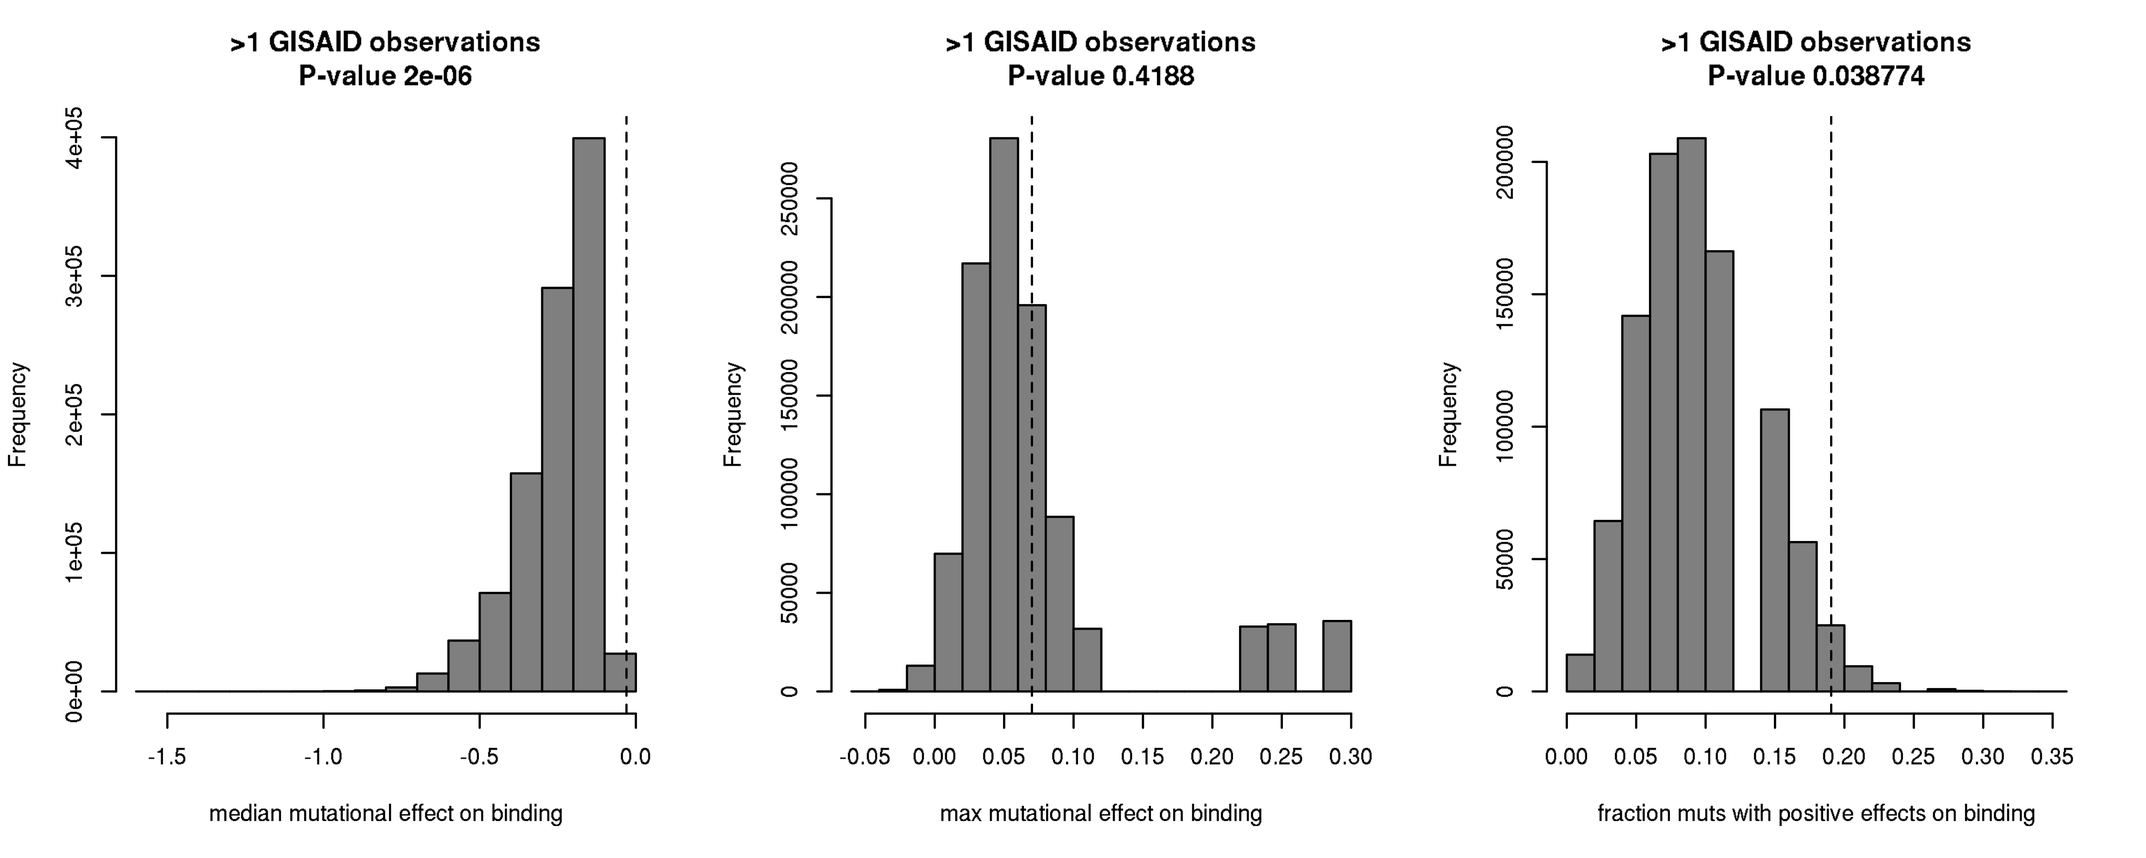
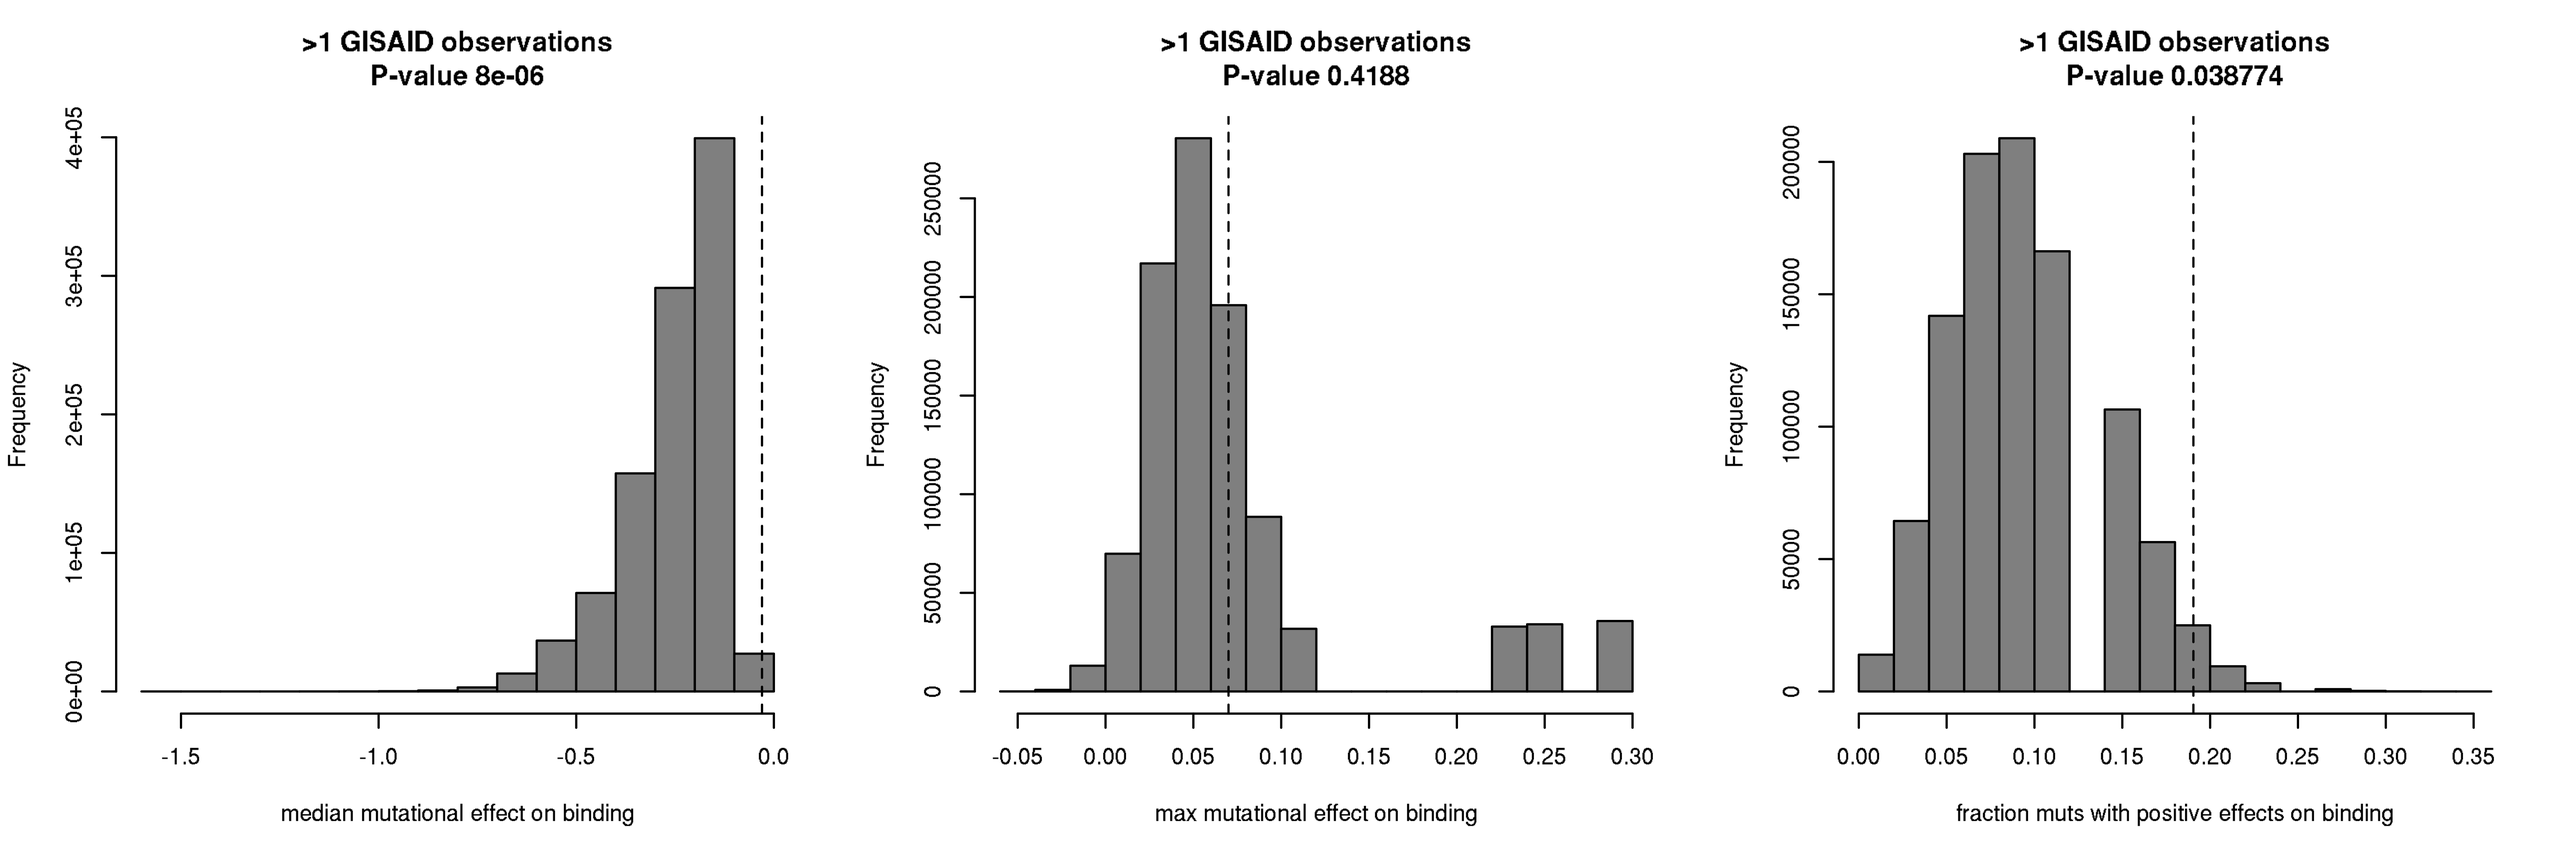
Update plots, md text

diff --git a/results/summary/circulating_variants.md b/results/summary/circulating_variants.md
@@ -372,13 +372,33 @@ Let’s use permutation tests to evaluate whether the shift in median
 mutational effects among GISAID sequences of different minimum frequency
 cutoffs is significant relative to the overall distribution of
 single-mutant effects. We draw samples without replacement from the raw
-distribution of single-mutation effects of size n, where n is the number
-of actual mutants observed above our cutoff among GISAID sequences.
-Within each random sample, we determine the median mutational effect, as
-well as the highest mutational effect and the fraction of random
-mutations that have binding efects \>0. We then compare our actual
-values to the permuted samples to evaluate the biases in mutational
-effects among mutations observed in the GISAID sequences.
+distribution of mutational effects (single-nt mutants only), drawing the
+same number of random mutations as in our GISAID sets. Within each
+random sample, we determine the median mutational effect, as well as the
+highest mutational effect and the fraction of mutations that have
+binding efects \>0. We then compare our actual values to these random
+samples to evaluate the biases in mutational effects among mutations
+observed in the GISAID sequences.
+
+The plots below show the distribution of a statistic in our 1e6 sampled
+sets, and the dashed line shows the actual value in our set of mutants
+observed in GISAID sequences some number of time – the first set of
+plots for mutations observed 1 or more times in GISAID sequences, the
+second set of plots for mutations observed more than 1 time, and the
+third set of plots for mutations observed more than 5 times. We evaluate
+a P-value for each comparison by determining the fraction of subsampled
+replicates with a value equal to or greater than the actual value. We
+can see that the median effect of mutations is significantly higher in
+the GISAID mutation sets than random samples, indicating that purifying
+selection shapes the mutations that are sampled in GISAID. We do not see
+strong evidence for positive selection for affinity-enhancing mutations
+among circulating variants – a large fraction of randomly sub-sampled
+sets of mutations sample at least one mutation with a higher
+affinity-enhancing effect than any seen in our actual dataset, and the
+fraction of mutations with binding effect \>0, though significantly
+lower in sub-samples, is not strongly diverged, and is conflated by the
+purifying selection which wiill naturally increase this metric among the
+observed set of mutants.
 
 ``` r
 set.seed(18041)
@@ -395,7 +415,7 @@ for(i in 1:n_rep){
 }
 
 par(mfrow=c(1,3))
-hist(median_0,xlab="median mutational effect on binding",col="gray50",main=paste(">0 GISAID observations\nP-value",sum(median_0>median(mutants[nobs>0,bind_avg]))/length(median_0)));abline(v=median(mutants[nobs>0,bind_avg]),lty=2)
+hist(median_0,xlab="median mutational effect on binding",col="gray50",main=paste(">0 GISAID observations\nP-value",sum(median_0>=median(mutants[nobs>0,bind_avg]))/length(median_0)));abline(v=median(mutants[nobs>0,bind_avg]),lty=2)
 
 hist(max_0,xlab="max mutational effect on binding",col="gray50",main=paste(">0 GISAID observations\nP-value",sum(max_0>=max(mutants[nobs>0,bind_avg]))/length(max_0)));abline(v=max(mutants[nobs>0,bind_avg]),lty=2)
 
@@ -422,7 +442,7 @@ for(i in 1:n_rep){
 }
 
 par(mfrow=c(1,3))
-hist(median_1,xlab="median mutational effect on binding",col="gray50",main=paste(">1 GISAID observations\nP-value",sum(median_1>median(mutants[nobs>1,bind_avg]))/length(median_1)));abline(v=median(mutants[nobs>1,bind_avg]),lty=2)
+hist(median_1,xlab="median mutational effect on binding",col="gray50",main=paste(">1 GISAID observations\nP-value",sum(median_1>=median(mutants[nobs>1,bind_avg]))/length(median_1)));abline(v=median(mutants[nobs>1,bind_avg]),lty=2)
 
 hist(max_1,xlab="max mutational effect on binding",col="gray50",main=paste(">1 GISAID observations\nP-value",sum(max_1>=max(mutants[nobs>1,bind_avg]))/length(max_1)));abline(v=max(mutants[nobs>1,bind_avg]),lty=2)
 
@@ -449,7 +469,7 @@ for(i in 1:n_rep){
 }
 
 par(mfrow=c(1,3))
-hist(median_5,xlab="median mutational effect on binding",col="gray50",main=paste(">5 GISAID observations\nP-value",sum(median_5>median(mutants[nobs>5,bind_avg]))/length(median_5)));abline(v=median(mutants[nobs>5,bind_avg]),lty=2)
+hist(median_5,xlab="median mutational effect on binding",col="gray50",main=paste(">5 GISAID observations\nP-value",sum(median_5>=median(mutants[nobs>5,bind_avg]))/length(median_5)));abline(v=median(mutants[nobs>5,bind_avg]),lty=2)
 
 hist(max_5,xlab="max mutational effect on binding",col="gray50",main=paste(">5 GISAID observations\nP-value",sum(max_5>=max(mutants[nobs>5,bind_avg]))/length(max_5)));abline(v=max(mutants[nobs>5,bind_avg]),lty=2)
 
